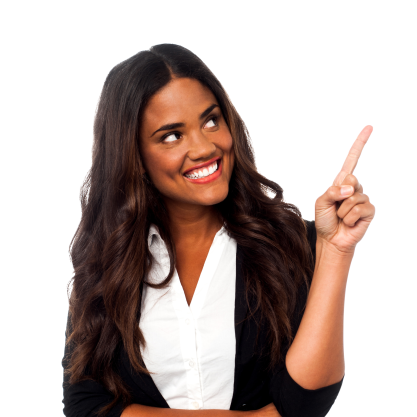
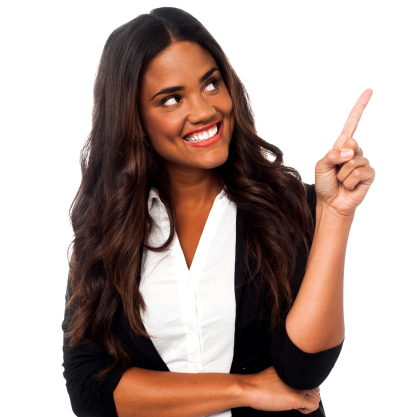
Hero container DONE

diff --git a/skilled-style.css b/skilled-style.css
@@ -97,7 +97,7 @@ nav {
     width: 100%;
 }
 
-h1 {
+.main-text-panel h1 {
     color: var(--dark-blue);
     line-height: (--lh-xl);
     font-size: var(--fs-h-l);
@@ -115,24 +115,44 @@ p {
     line-height: var(--lh-b-m);
     font-size: var(--fs-b-s);
     max-width: 450px;
-    margin: 0 0 20px 0;
+    margin: 0 0 25px 0;
 }
 
 .main-text-button {
-    background: linear-gradient(#F02AA6, #FF6F48);
-    width: 167px;
+    background: linear-gradient(#FF6F48,#F02AA6);
     height: 56px;
+    width: 167px;
+}
+
+.main-text-button:hover {
+    opacity: 0.5;
 }
 
 
 /* -------------------------------------------------Hero container*/
 
 .hero-container {
-    background-color: #white;
+    background-color: rgb(255, 255, 255);
     height: 300px;
     position: relative;
     margin: 50px 0;
     width: 100%;
+}
+
+.hero-container h1 {
+    display: inline-block;
+    font-size: var(--fs-h-m);
+    font-weight: var(--fw-e-b);
+    line-height: var(--lh-m);
+    margin: 0;
+}
+
+.hero-container span {
+    color:#666CA3;
+    display: inline-block;
+    font-size: 14px;
+    font-weight: var(--fw-b);
+    line-height: var(--lh-b-m);
 }
 
 .layer-top-upright {
@@ -140,35 +160,45 @@ p {
     border-radius: 1rem;
     box-shadow: 0 15px 25px rgb(128, 128, 128);
     display: inline-block;
-    height: 105px;
+    height: 75px;
     position: absolute;
     top: 0;
+    padding: 15px 25px;
     right: 0;
-    width: 100px;
+    width: 65px;
+    z-index: 1;
 }
 
 .layer-top-bottom-left {
     background-color: white;
+    bottom: 0;
     border-radius: 1rem;
     box-shadow: 0 15px 25px rgb(128, 128, 128);
     display: inline-block;
-    height: 100px;
-    position: absolute;
-    bottom: 0;
+    height: 70px;
     left: 0;
-    width: 155px;
+    padding: 15px 25px;
+    position: absolute;
+    width: 105px;
+    z-index: 1;
 }
 
 .layer-bottom-hero {
     background: linear-gradient(#F02AA6, #FF6F48);
     border-radius: 50%;
     height: 253px;
+    left: 50%;
     margin: auto;
+    overflow: hidden;
+    position: absolute;
+    top: 50%;
+    transform: translate(-50%, -50%);
     width: 253px;
 }
 
 #image-hero {
-    overflow: hidden;
+    display: block;
+    transform: translate(0, 20px);
     width: 100%;
 }
 
@@ -183,7 +213,7 @@ p {
 
     p {
         font-size: var(--fs-b-m);
-        margin:0;
+        margin:0; /* !!! */
         width:85%
     }
 }

diff --git a/skilled-index.html b/skilled-index.html
@@ -52,6 +52,8 @@
             </div>
         </section>
 
+        <!--------------------------------------------------------------->
+
         <section>
             <container>
                 <h3>Check out our most popular courses!</h3>
